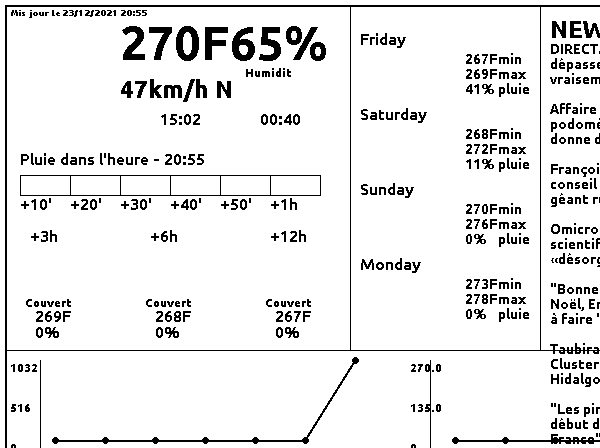
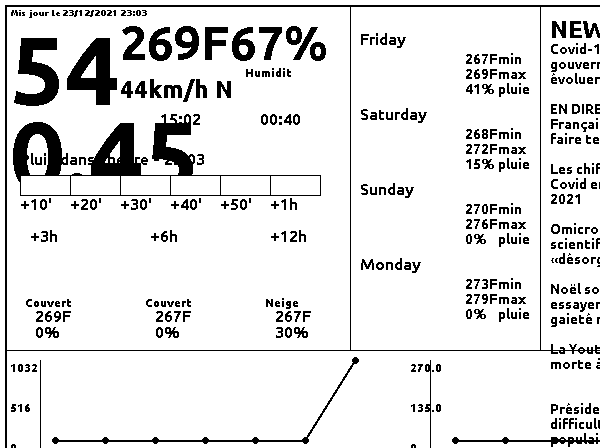
show station data

diff --git a/weather_station.py b/weather_station.py
@@ -45,8 +45,8 @@ def main():
 
     ############################################################################
     # CURRENT WEATHER
-    display.draw_black.text((10, 15), weather.station_temp(), fill=0, font=font96, color='black')
-    display.draw_black.text((10, 100), weather.station_daily_rain(), fill=0, font=font96, color='blue')
+    display.draw_black.text((10, 15), str(weather.station_temp()), fill=0, font=font96, color='black')
+    display.draw_black.text((10, 100), str(weather.station_daily_rain()), fill=0, font=font96, color='blue')
     display.draw_icon(20, 55, "r", 75, 75,
                       weather.weather_description(weather.current_weather())[0])  # CURRENT WEATHER ICON
     display.draw_black.text((120, 15), weather.current_temp(), fill=0, font=font48)  # CURRENT TEMP
@@ -292,8 +292,8 @@ if __name__ == "__main__":
             weather.update()
             print("Weather Updated")
             # pollution.update(lat, lon, api_key_weather)
-            # news.update(api_key_news)
-            # print("News Updated")
+            news.update(api_key_news)
+            print("News Updated")
             main()
             time.sleep(3600)
         except KeyboardInterrupt:
@@ -305,7 +305,7 @@ if __name__ == "__main__":
             else :
                 pass
             exit()
-        except Exception as e:
+        except IOException as e:
             current_time = time.strftime("%d/%m/%Y %H:%M:%S", time.localtime())
             print("PROBLEM OCCURRED WHILE REFRESHING - NEXT TRY 1000s - @" + current_time)
             print(str(e))

diff --git a/weather.py b/weather.py
@@ -28,10 +28,10 @@ class Weather:
         ).json()
 
     def station_daily_rain(self):
-        return self.station_data()["observations"]["imperial"]["precipTotal"]
+        return self.station_data["observations"][0]["imperial"]["precipTotal"]
 
     def station_temp(self):
-        return self.station_data()["observations"]["imperial"]["temp"]
+        return self.station_data["observations"][0]["imperial"]["temp"]
 
     def update(self):
         self.data = requests.get(
